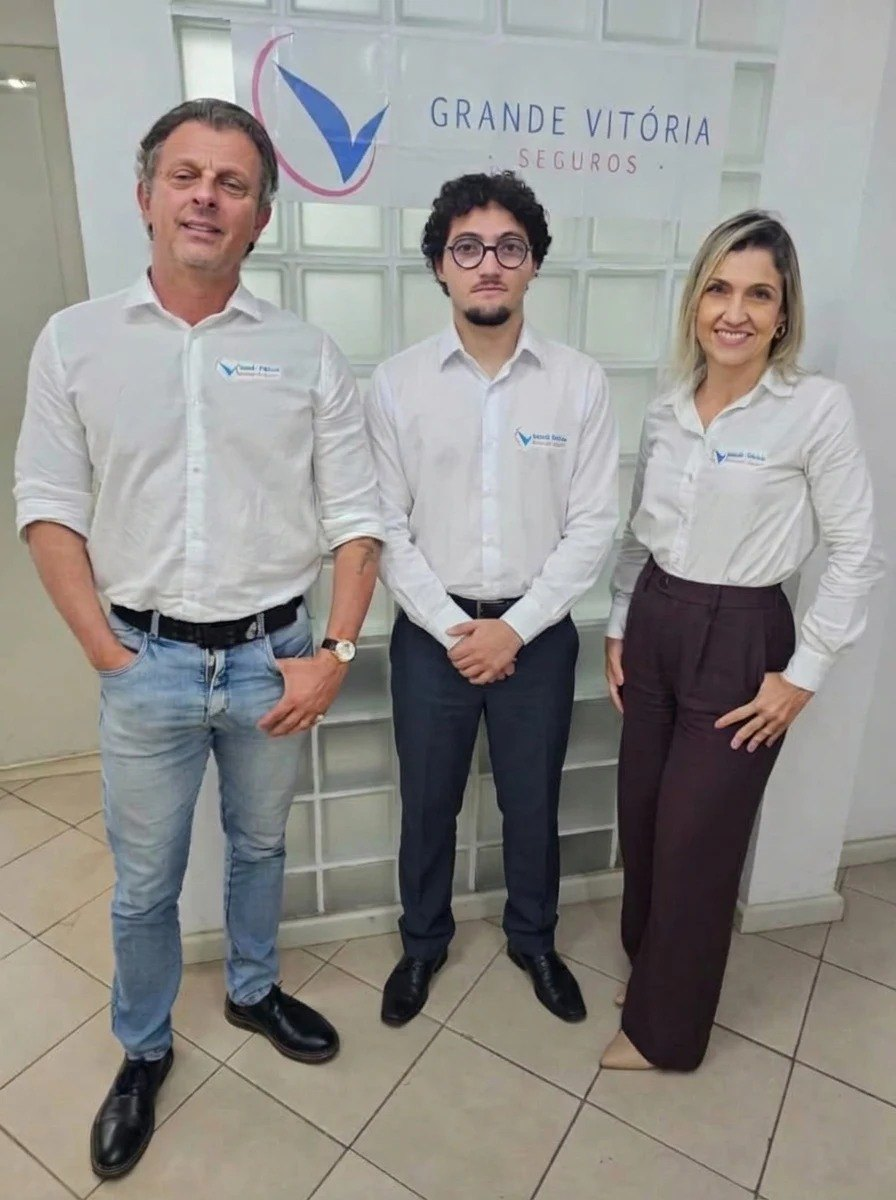
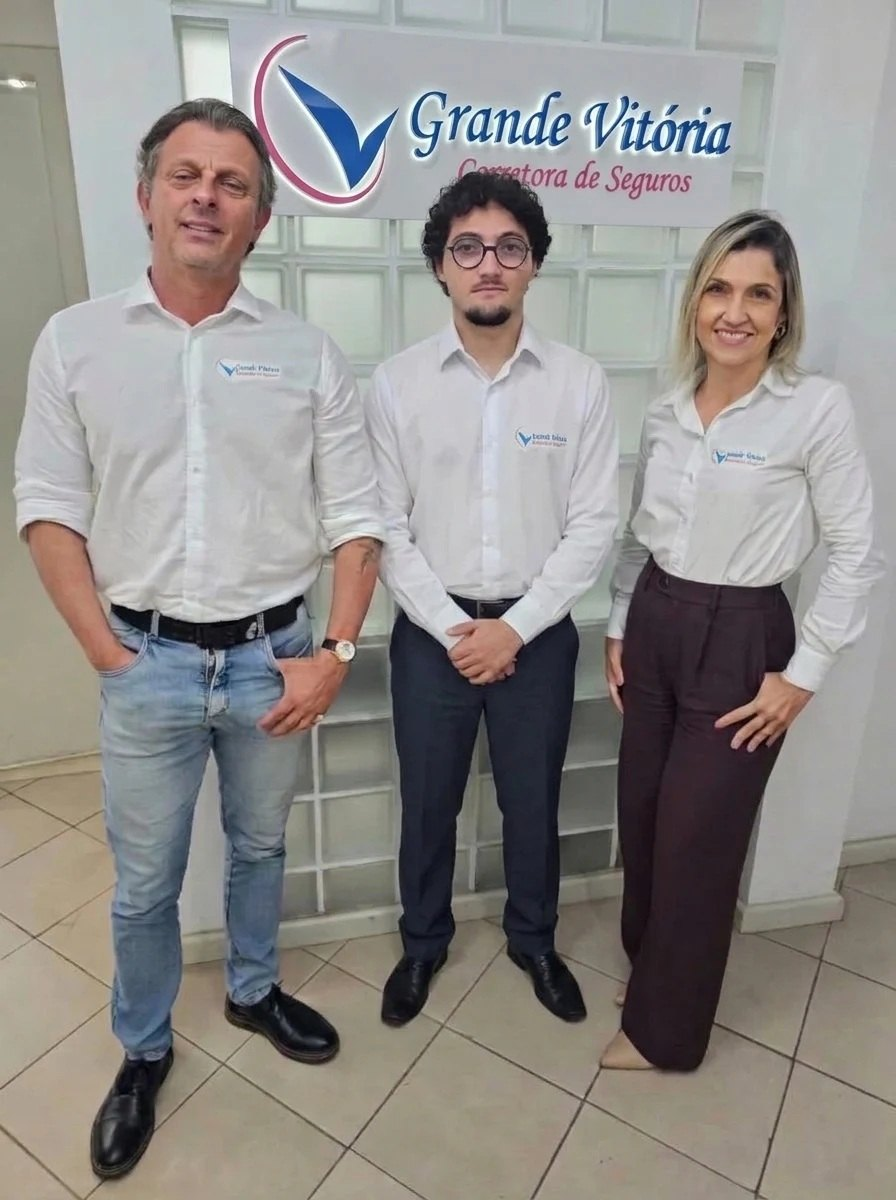
GV: ajustes da Líbia (26 anos, cargos, RC Profissional e Engenharia/Obras, letreiro)

Changed region(s): [[0.25, 0.0, 0.8125, 0.185], [0.4062, 0.0308, 0.4375, 0.0617]]

diff --git a/grande-vitoria/index.html b/grande-vitoria/index.html
@@ -4,7 +4,7 @@
 <meta charset="utf-8">
 <meta name="viewport" content="width=device-width,initial-scale=1,viewport-fit=cover">
 <title>Grande Vitória Corretora de Seguros · Vitória, ES · Auto, vida, residencial e condomínio</title>
-<meta name="description" content="Corretora de seguros na Praia do Canto, em Vitória. O corretor Aloysio Monjardim, com mais de 20 anos de experiência, compara as seguradoras e acompanha você no sinistro. Especialistas em seguro de condomínio.">
+<meta name="description" content="Corretora de seguros na Praia do Canto, em Vitória. O corretor Aloysio Monjardim, com 26 anos de experiência, compara as seguradoras e acompanha você no sinistro. Especialistas em seguro de condomínio.">
 <meta name="theme-color" content="#06152B">
 <link rel="icon" href="img/emblema.png">
 <meta property="og:title" content="Grande Vitória Corretora de Seguros">
@@ -101,6 +101,7 @@ section{position:relative;padding:130px 0}
 .sgrid{display:grid;grid-template-columns:repeat(4,1fr);gap:16px}
 .card{position:relative;border-radius:var(--r);overflow:hidden;aspect-ratio:3/4;background:var(--ink3);isolation:isolate;display:block}
 .card.big{grid-column:span 2;aspect-ratio:auto}
+.card.wide{grid-column:span 2;aspect-ratio:16/8}
 .card img{position:absolute;inset:0;width:100%;height:100%;object-fit:cover}
 .card:after{content:"";position:absolute;inset:0;z-index:1;background:linear-gradient(180deg,rgba(6,21,43,0) 30%,rgba(6,21,43,.94) 100%)}
 .card .tx{position:absolute;z-index:2;left:20px;right:20px;bottom:18px}
@@ -226,6 +227,7 @@ h2.in .sw>span{transform:none}
   .menu,.nav .btn{display:none}
   .sgrid{grid-template-columns:1fr 1fr}
   .card.big{grid-column:span 2;aspect-ratio:16/10}
+  .card.wide{aspect-ratio:16/10}
   .cg,.og,.team,.final .wrap{grid-template-columns:1fr}
   .steps{grid-template-columns:1fr 1fr}
   .pg{grid-template-columns:repeat(3,1fr)}
@@ -272,7 +274,7 @@ h2.in .sw>span{transform:none}
   <div class="hc"><div class="wrap">
     <div class="kick glass"><img src="img/emblema.png" alt="">Corretora de seguros · Praia do Canto, Vitória</div>
     <h1><span class="ln"><span>Proteção de verdade</span></span><span class="ln"><span><em>para quem você ama.</em></span></span></h1>
-    <p class="sub">O corretor Aloysio Monjardim, com mais de 20 anos de experiência, compara as seguradoras, explica cada cobertura e fica do seu lado na hora do sinistro.</p>
+    <p class="sub">O corretor Aloysio Monjardim, com 26 anos de experiência, compara as seguradoras, explica cada cobertura e fica do seu lado na hora do sinistro.</p>
     <div class="ctas">
       <a class="btn pri" href="#cotacao">Cotar meu seguro<svg viewBox="0 0 24 24" fill="none" stroke="currentColor" stroke-width="2" stroke-linecap="round"><path d="M5 12h14M13 6l6 6-6 6"/></svg></a>
       <a class="btn gl glass" href="#seguros">Ver os seguros</a>
@@ -282,10 +284,10 @@ h2.in .sw>span{transform:none}
 </section>
 
 <section class="proof"><div class="wrap">
-  <div><b><span data-to="20">20</span><i>+</i></b><span>anos de experiência do corretor</span></div>
-  <div><b><span data-to="9">9</span> tipos</b><span>de seguro e consórcio</span></div>
+  <div><b><span data-to="26">26</span> anos</b><span>de experiência do corretor Aloysio Monjardim</span></div>
+  <div><b>Todos</b><span>os seguros e consórcios</span></div>
   <div><b>Várias</b><span>seguradoras comparadas</span></div>
-  <div><b>1 corretor</b><span>do começo ao sinistro</span></div>
+  <div><b>Equipe</b><span>especializada do começo ao sinistro</span></div>
 </div></section>
 
 <section id="seguros"><div class="wrap">
@@ -301,6 +303,8 @@ h2.in .sw>span{transform:none}
     <a class="card rv d1" href="#cotacao" data-tipo="Saúde"><img src="img/saude.jpg" alt="Plano de saúde"><div class="shine"></div><div class="tx"><h3>Saúde</h3><p>Planos para família e empresa.</p><span class="go">Cotar →</span></div></a>
     <a class="card rv d2" href="#cotacao" data-tipo="Empresarial"><img src="img/empresa.jpg" alt="Seguro empresarial" style="object-position:35% center"><div class="shine"></div><div class="tx"><h3>Empresas</h3><p>Loja, escritório e responsabilidade civil.</p><span class="go">Cotar →</span></div></a>
     <a class="card rv d3" href="#cotacao" data-tipo="Consórcio"><img src="img/consorcio.jpg" alt="Consórcio"><div class="shine"></div><div class="tx"><h3>Consórcio</h3><p>Carro e imóvel, sem juros.</p><span class="go">Cotar →</span></div></a>
+    <a class="card wide rv" href="#cotacao" data-tipo="RC Profissional"><img src="img/rc-profissional.jpg" alt="Seguro de responsabilidade civil profissional"><div class="shine"></div><div class="tx"><h3>RC Profissional</h3><p>Para médicos, dentistas, engenheiros, advogados e outras profissões.</p><span class="go">Cotar →</span></div></a>
+    <a class="card wide rv d1" href="#cotacao" data-tipo="Engenharia e Obras"><img src="img/engenharia-obras.jpg" alt="Seguro de risco de engenharia e obras"><div class="shine"></div><div class="tx"><h3>Risco de Engenharia e Obras</h3><p>Proteção da obra do começo à entrega.</p><span class="go">Cotar →</span></div></a>
   </div>
 </div></section>
 
@@ -352,7 +356,7 @@ h2.in .sw>span{transform:none}
     <div>
       <div class="tag rv">Quem cuida de você</div>
       <h2 class="rv d1" style="margin:14px 0 18px">Aqui quem cota é quem atende, <em>e quem atende resolve.</em></h2>
-      <p class="lead rv d2">À frente da Grande Vitória está o corretor Aloysio Monjardim, com mais de 20 anos de experiência em seguros. Você fala com a equipe pelo nome, não com uma central, do primeiro contato à renovação.</p>
+      <p class="lead rv d2">À frente da Grande Vitória está o corretor Aloysio Monjardim, com 26 anos de experiência em seguros. Você fala com a equipe pelo nome, não com uma central, do primeiro contato à renovação.</p>
       <div class="office">
         <div class="ph rv d2"><img src="img/aloysio-escritorio.jpg" alt="Aloysio Monjardim no escritório"><span class="glass">Aloysio Monjardim · corretor</span></div>
         <div class="ph rv d3"><img src="img/fachada.jpg" alt="Prédio do escritório na Praia do Canto"><span class="glass">Praia do Canto · Vitória</span></div>
@@ -360,11 +364,11 @@ h2.in .sw>span{transform:none}
     </div>
   </div>
   <div class="pg">
-    <div class="person rv"><div class="ph"><img loading="lazy" src="img/aloysio.jpg" alt="Aloysio Monjardim"></div><b>Aloysio Monjardim</b><span>Corretor de seguros</span></div>
-    <div class="person rv d1"><div class="ph"><img loading="lazy" src="img/libia.jpg" alt="Líbia"></div><b>Líbia</b><span>Grande Vitória</span></div>
-    <div class="person rv d2"><div class="ph"><img loading="lazy" src="img/renata.jpg" alt="Renata Fernandes"></div><b>Renata Fernandes</b><span>Grande Vitória</span></div>
-    <div class="person rv d3"><div class="ph"><img loading="lazy" src="img/diego.jpg" alt="Diego Bitencourt"></div><b>Diego Bitencourt</b><span>Grande Vitória</span></div>
-    <div class="person rv d4"><div class="ph"><img loading="lazy" src="img/jheimyson.jpg" alt="Jheimyson Rodrigues"></div><b>Jheimyson Rodrigues</b><span>Grande Vitória</span></div>
+    <div class="person rv"><div class="ph"><img loading="lazy" src="img/aloysio.jpg" alt="Aloysio Monjardim"></div><b>Aloysio Monjardim</b><span>Corretor Master em Seguros</span></div>
+    <div class="person rv d1"><div class="ph"><img loading="lazy" src="img/libia.jpg" alt="Libia Monjardim"></div><b>Libia Monjardim</b><span>Gerente Comercial de Seguros e Consórcios</span></div>
+    <div class="person rv d2"><div class="ph"><img loading="lazy" src="img/renata.jpg" alt="Renata Fernandes"></div><b>Renata Fernandes</b><span>Especialista Patrimonial</span></div>
+    <div class="person rv d3"><div class="ph"><img loading="lazy" src="img/diego.jpg" alt="Diego Betencourt"></div><b>Diego Betencourt</b><span>Especialista em Auto e Ramos Elementares</span></div>
+    <div class="person rv d4"><div class="ph"><img loading="lazy" src="img/jheimyson.jpg" alt="Jheimyson Rodrigues"></div><b>Jheimyson Rodrigues</b><span>Supervisor de Cobrança e Sinistros</span></div>
   </div>
 </div></section>
 
@@ -428,7 +432,9 @@ const F={
  'Vida':[['Idade','ex.: 38'],['Para','sel:Só para mim|Para a família|Para a empresa (grupo)']],
  'Saúde':[['Quantas vidas','ex.: 3'],['Idades','ex.: 40, 38 e 9'],['Para','sel:Família|Empresa']],
  'Empresarial':[['Ramo da empresa','ex.: loja de roupas'],['Bairro / cidade','ex.: Centro, Vitória']],
- 'Consórcio':[['Para','sel:Carro|Imóvel|Outro'],['Valor da carta','ex.: R$ 80 mil']]
+ 'Consórcio':[['Para','sel:Carro|Imóvel|Outro'],['Valor da carta','ex.: R$ 80 mil']],
+ 'RC Profissional':[['Profissão','ex.: médico, dentista, engenheiro, advogado'],['Atua como','sel:Autônomo|Empresa / clínica / escritório'],['Cidade','ex.: Vitória']],
+ 'Engenharia e Obras':[['Tipo de obra','ex.: construção de prédio, reforma, instalação'],['Valor estimado da obra','ex.: R$ 2 milhões'],['Prazo da obra','ex.: 18 meses'],['Cidade','ex.: Vila Velha']]
 };
 const chips=document.getElementById('chips'),flds=document.getElementById('flds');let tipo='Auto';
 Object.keys(F).forEach(k=>{const b=document.createElement('button');b.type='button';b.textContent=k;b.onclick=()=>setTipo(k);chips.appendChild(b)});
@@ -441,7 +447,7 @@ setTipo('Auto');
 document.querySelectorAll('[data-tipo],[data-go]').forEach(a=>a.addEventListener('click',()=>setTipo(a.dataset.tipo||a.dataset.go)));
 document.getElementById('go').onclick=()=>{
   const parts=[...flds.querySelectorAll('input,select')].map(e=>e.value.trim()?e.dataset.l+': '+e.value.trim():null).filter(Boolean);
-  const NOME={'Auto':'seguro auto','Condomínio':'seguro de condomínio','Residencial':'seguro residencial','Vida':'seguro de vida','Saúde':'plano de saúde','Empresarial':'seguro empresarial','Consórcio':'consórcio'};
+  const NOME={'Auto':'seguro auto','Condomínio':'seguro de condomínio','Residencial':'seguro residencial','Vida':'seguro de vida','Saúde':'plano de saúde','Empresarial':'seguro empresarial','Consórcio':'consórcio','RC Profissional':'seguro de responsabilidade civil profissional','Engenharia e Obras':'seguro de risco de engenharia (obras)'};
   const m='Olá, Grande Vitória! Quero uma cotação de '+(NOME[tipo]||'seguro')+'.'+(parts.length?' '+parts.join(' · ')+'.':'')+' Vi no site.';
   document.getElementById('prevtx').textContent=m;document.getElementById('prev').classList.add('on');
   window.open('https://wa.me/'+ZAP+'?text='+encodeURIComponent(m),'_blank','noopener');
